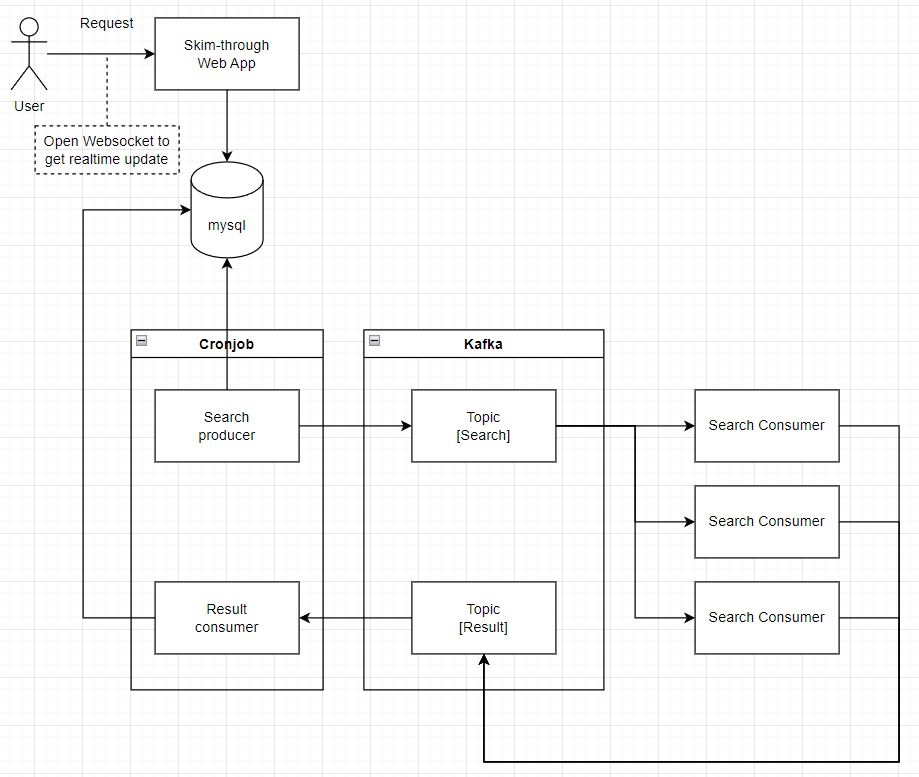
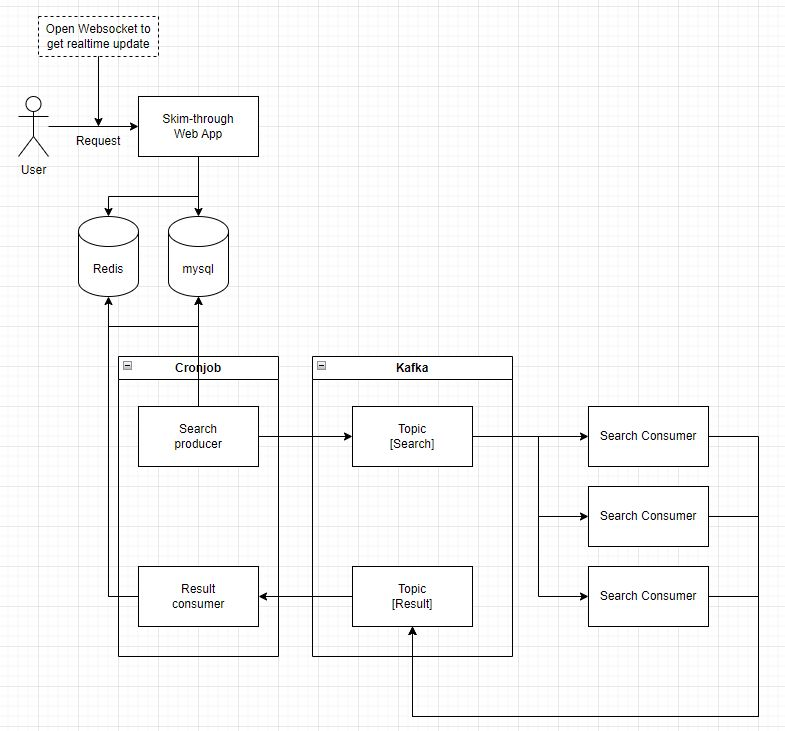
add kafka pubsub sample codes and redis

diff --git a/cronjob/code/result_consumer.py b/cronjob/code/result_consumer.py
@@ -1,0 +1,24 @@
+from kafka import KafkaConsumer
+from json import loads
+
+
+topic = "result"
+consumer = KafkaConsumer(
+    # topic,
+    bootstrap_servers="localhost:9092",
+    auto_offset_reset ="latest",
+    enable_auto_commit=True,
+    # group_id="batch-processor",
+    value_deserializer=lambda x: loads(x.decode("utf-8")),
+    consumer_timeout_ms=1000
+)
+
+consumer.subscribe(topics=[topic])
+
+
+while True:
+
+    for message in consumer:
+        print(f'Topic : {message.topic}, Partition : {message.partition}, Offset : {message.offset}, Key : {message.key}, value : {message.value}')
+ 
+print('[End] get consumer')

diff --git a/cronjob/code/result_producer.py b/cronjob/code/result_producer.py
@@ -1,0 +1,31 @@
+from kafka import KafkaProducer
+
+from json import dumps
+import time
+
+
+
+
+producer = KafkaProducer(
+    acks=1,
+    compression_type="gzip",
+    bootstrap_servers=["localhost:9092"],
+    value_serializer=lambda x: dumps(x).encode("utf-8")
+)
+
+
+start = time.time()
+
+topic = "result"
+data = {
+    "oid":1234,
+    "uuid":12441224,
+    "user_id":"abc",
+    "type":"qfc",
+    "link":"https://www.qfc.com/search?query=kiwi&searchType=default_search",
+}
+
+producer.send(topic=topic, value=data)
+producer.flush()
+
+print(f"Sent to {topic}: ", data)

diff --git a/cronjob/code/search_producer.py b/cronjob/code/search_producer.py
@@ -1,0 +1,28 @@
+from kafka import KafkaProducer
+
+from json import dumps
+import time
+
+
+
+
+producer = KafkaProducer(
+    acks=1,
+    compression_type="gzip",
+    bootstrap_servers=["localhost:9092"],
+    value_serializer=lambda x: dumps(x).encode("utf-8")
+)
+
+
+start = time.time()
+
+topic = "search"
+data = {
+    "type":"qfc",
+    "link":"https://www.qfc.com/search?query=kiwi&searchType=default_search",
+}
+
+producer.send(topic=topic, value=data)
+producer.flush()
+
+print(f"Sent to {topic}: ", data)

diff --git a/skim-through-app/project/settings.py b/skim-through-app/project/settings.py
@@ -78,7 +78,7 @@ DATABASES = {
         "ENGINE": "django.db.backends.mysql",
         "NAME": "skim_through",
         "USER": "skim_through",
-        "PASSWORD": "skim_through",
+        "PASSWORD": "skim1through!",
         "HOST":"localhost",
         "PORT":"3310",
         ""

diff --git a/README.md b/README.md
@@ -52,7 +52,7 @@ Windows (Add `C:\Users\user-name\AppData\Roaming\Python\Scripts` in your PATH )
 (Invoke-WebRequest -Uri https://install.python-poetry.org -UseBasicParsing).Content | py -
 ```
 
-### Project setup
+### Project setup with Poetry
 
 #### Init
 
@@ -81,6 +81,16 @@ poetry run python manage.py runserver
 ```
 poetry version minor
 ```
+
+### How to set env location in vm
+
+#### 1. get env path
+```
+poetry env info
+```
+
+#### 2. set path in vs code in `Ctrl + Shift + P` + `"python: Select Interpreter"`
+
 
 
 #### DB - mysql
